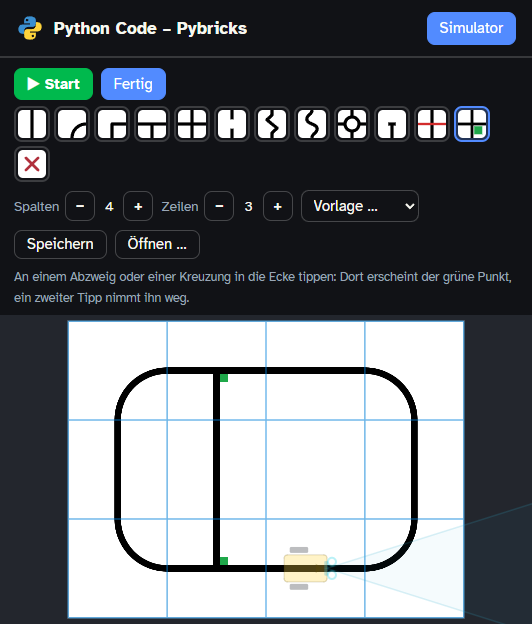
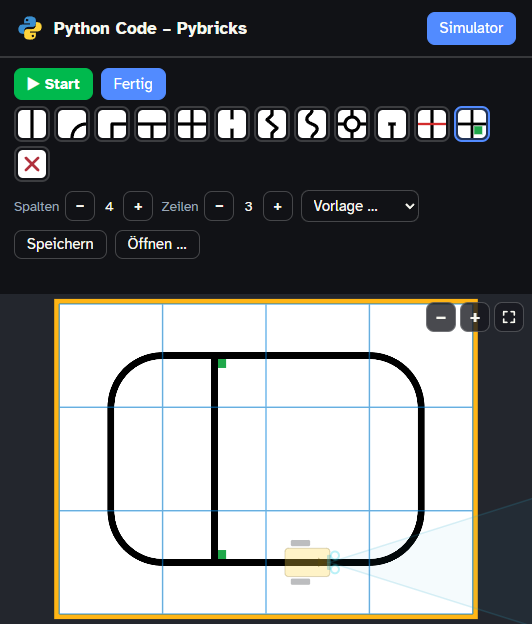
docs: Rand, Heranholen und Kreisel-Punkte in README, Roadmap und Changelog; Bilder neu
Claude-Session: https://claude.ai/code/session_01PviZb3Q8FPaRScTPKtzbYN

Changed region(s): [[0.0301, 0.4263, 0.9925, 1.0]]

diff --git a/ROADMAP.md b/ROADMAP.md
@@ -397,23 +397,25 @@ ohne DOM, geprüft in `tests/sim.test.ts`.
 - **Bahn aus Platten** (`tiles.ts`, `trackEditor.ts`): »Bahn bauen« legt die Bahn aus Platten von
   30 cm zusammen, wie bei RoboCup Junior Rescue Line – Gerade, Kurve, Ecke, Abzweig, Kreuzung,
   Lücke, Zickzack, Schlangenlinie, Kreisel, Linienende, rote Ziellinie. Ein Tipp legt eine Platte,
-  noch einer dreht sie; an Abzweig und Kreuzung kommen grüne Punkte in die Ecken. Zwei bis acht
+  noch einer dreht sie; an Abzweig, Kreuzung und Kreisel kommen grüne Punkte neben die Linie. Zwei bis acht
   Platten breit, zwei bis sechs hoch; Vorlagen, Speichern und Öffnen als Datei. Die Bahn bleibt
   gemerkt, samt Hindernissen und dem Platz des Roboters.
 - **Bahn und Hindernisse** (`world.ts`): Gerechnet wird auf einem Bild der Bahn von oben – dem der
   Platten oder einem eigenen, das sich laden lässt; die Größe des Roboters darauf ist einstellbar.
   Reflexion und Farbe liest der Sensor aus dem Bild. Hindernisse sind Rechtecke zum Setzen, Ziehen und
   Vergrößern; der Abstandssensor sieht, was in seinem Kegel liegt, der Kraftsensor drückt am
-  Hindernis oder per Knopf. Der Roboter fährt an ein Hindernis heran, nicht hinein.
+  Hindernis oder per Knopf. Der Roboter fährt an ein Hindernis heran, nicht hinein – und nicht
+  über den Rand der Bahn hinaus, den aber kein Sensor bemerkt (ein Klick schaltet ihn um). Die
+  Bahn lässt sich heranholen und verschieben.
 - **Ausführen** (`runner.ts`): Der Simulator läuft die Blöcke selbst ab, in simulierter Zeit –
   nicht den erzeugten Python-Code. Das weicht vom Entwurf unten ab: Es braucht kein zusätzliches
   Paket, markiert den laufenden Block und verträgt sich mit der Content-Security-Policy. Der
   Preis: Was der Generator tut, muss dort nachgezogen werden, und Blöcke aus Erweiterungen,
   Xbox-Controller und LEGO-Fernbedienung laufen nicht mit. Mehrere Ereignisse und Nachrichten
   gehen; ein eigener Block, der sich endlos selbst aufruft, bricht wie auf dem Hub ab.
-- **Hub** (`hubDisplay.ts`): neben der Bahn, mit Lichtmatrix (Bild, Muster, Zahl, Text),
-  Statuslicht und Tasten; die mittlere startet und beendet das Programm, ein Doppelklick zeigt
-  nur den Hub. Der Piepton ist zu hören, das Steuerfeld steuert auch den simulierten Roboter,
+- **Hub** (`hubDisplay.ts`): in der Ecke über der Bahn, mit Lichtmatrix (Bild, Muster, Zahl, Text)
+  und Tasten; die mittlere startet und beendet das Programm und leuchtet, solange es läuft. Ein
+  Doppelklick zeigt nur den Hub. Der Piepton ist zu hören, das Steuerfeld steuert auch den simulierten Roboter,
   das Tempo reicht von ¼× bis 4×.
 - **Umbauen** (`build.ts`): Der Roboter steht groß mit der Nase nach oben auf einem Raster im
   Abstand der LEGO-Noppen (8 mm). Sensoren lassen sich versetzen und in Schritten von 15 Grad

diff --git a/README.md b/README.md
@@ -226,16 +226,22 @@ dran ist, ist markiert, Ausgaben stehen im Terminal.
   ein Rundkurs. »Bahn bauen« zeigt die Platten zur Auswahl – Gerade, Kurve, Ecke, Abzweig,
   Kreuzung, Lücke, Zickzack, Schlangenlinie, Kreisel, Linienende und die rote Ziellinie: Ein Tipp
   auf ein Feld legt die gewählte Platte, noch ein Tipp dreht sie. Mit dem **grünen Punkt** tippt
-  man an einem Abzweig oder einer Kreuzung in die Ecke, in die er soll – der Farbsensor sieht dort
-  Grün und an der Ziellinie Rot. Die Bahn darf zwei bis acht Platten breit und zwei bis sechs hoch
+  man an einem Abzweig, einer Kreuzung oder einem Kreisel neben die Linie, wo er hin soll – der
+  Farbsensor sieht dort Grün und an der Ziellinie Rot. Die Bahn darf zwei bis acht Platten breit und zwei bis sechs hoch
   sein; es gibt Vorlagen, und sie lässt sich als Datei speichern und weitergeben. Sie bleibt
   gemerkt, samt Hindernissen und dem Platz des Roboters.
 - **Ein eigenes Bild** geht auch: »Bahn laden …« nimmt ein Foto oder eine Zeichnung von oben. Der
   Regler »Roboter« stellt ein, wie groß der Roboter darauf ist.
 - **Roboter und Hindernisse** lassen sich ziehen, der Roboter am Punkt vor ihm drehen, ein
   Hindernis an seiner Ecke größer und kleiner ziehen; ein Doppelklick räumt es weg.
-- **Der Hub** neben der Bahn zeigt die Lichtmatrix und das Statuslicht, seine Tasten lassen sich
-  drücken. Ein Doppelklick auf ihn zeigt nur noch den Hub.
+- **Der Rand** um die Bahn hält den Roboter auf: Er fährt dagegen und steht an. Die Sensoren
+  bemerken den Rand nicht. Ein Klick auf den Rand schaltet ihn aus und wieder ein.
+- **Heranholen:** Mausrad oder zwei Finger holen die Bahn heran, an freier Stelle lässt sie sich
+  verschieben; die Knöpfe oben rechts tun dasselbe. Fährt der Roboter dabei aus dem Bild, wandert
+  die Bahn mit.
+- **Der Hub** liegt in der Ecke über der Bahn und zeigt die Lichtmatrix; seine Tasten lassen sich
+  drücken. Die mittlere leuchtet grün, solange das Programm läuft – oder in der Farbe, die der
+  Block »Statuslicht« einstellt. Ein Doppelklick auf den Hub zeigt nur noch ihn.
 - **Umbauen** zeigt den Roboter groß. Sensoren lassen sich versetzen und am Knopf drehen: auf
   einem Raster im Abstand der LEGO-Noppen (8 mm), in Schritten von 15 Grad, auf Wunsch
   spiegelbildlich. Mit Tastatur: <kbd>Alt</kbd> ohne Einrasten, <kbd>Umschalt</kbd> nur eine

diff --git a/CHANGELOG.md b/CHANGELOG.md
@@ -28,16 +28,20 @@ Programmen (und einem Git-Tag wie `v0.26.0`) fasst dann zusammen, was seit dem v
   - **Bahn bauen, wie bei RoboCup Junior Rescue Line:** Die Bahn besteht aus Platten von 30 cm –
     Gerade, Kurve, Ecke, Abzweig, Kreuzung, Lücke, Zickzack, Schlangenlinie, Kreisel, Linienende
     und die rote Ziellinie. Ein Tipp auf ein Feld legt die gewählte Platte, noch ein Tipp dreht
-    sie. An Abzweig und Kreuzung kommen **grüne Punkte** in die Ecken, die der Farbsensor als Grün
-    sieht. Zwei bis acht Platten breit, zwei bis sechs hoch; es gibt Vorlagen, und die Bahn lässt
+    sie. An Abzweig, Kreuzung und Kreisel kommen **grüne Punkte** neben die Linie, die der
+    Farbsensor als Grün sieht. Zwei bis acht Platten breit, zwei bis sechs hoch; es gibt Vorlagen, und die Bahn lässt
     sich als Datei speichern und weitergeben. Am Anfang liegt ein Rundkurs.
   - **Eigenes Bild und Hindernisse:** »Bahn laden …« nimmt stattdessen ein eigenes Bild; wie groß
     der Roboter darauf ist, stellt ein Regler ein. Hindernisse lassen sich setzen, ziehen und in
     der Größe ändern. Der Abstandssensor sieht, was in seinem Kegel liegt, der Kraftsensor drückt
     am Hindernis oder per Knopf. Neben der Reflexion steht, wenn der Farbsensor Grün, Rot, Blau
     oder Gelb sieht.
-  - **Der Hub** liegt neben der Bahn: Lichtmatrix (Bild, Muster, Zahl, Text), Statuslicht und
-    Tasten zum Drücken; ein Doppelklick zeigt nur noch den Hub. Der Piepton ist zu hören, das
+  - **Rand und Heranholen:** Um die Bahn läuft ein Rand, gegen den der Roboter fährt und ansteht;
+    die Sensoren bemerken ihn nicht, ein Klick darauf schaltet ihn um. Die Bahn lässt sich mit
+    Mausrad oder zwei Fingern heranholen und verschieben.
+  - **Der Hub** liegt in der Ecke über der Bahn: Lichtmatrix (Bild, Muster, Zahl, Text) und
+    Tasten zum Drücken; die mittlere leuchtet grün, solange das Programm läuft. Ein Doppelklick
+    zeigt nur noch den Hub. Der Piepton ist zu hören, das
     Steuerfeld steuert auch den simulierten Roboter, das Tempo reicht von ¼× bis 4×.
   - **Umbauen:** Der Roboter erscheint groß auf einem Raster im Abstand der LEGO-Noppen (8 mm).
     Sensoren lassen sich versetzen und in Schritten von 15 Grad drehen, auf Wunsch
